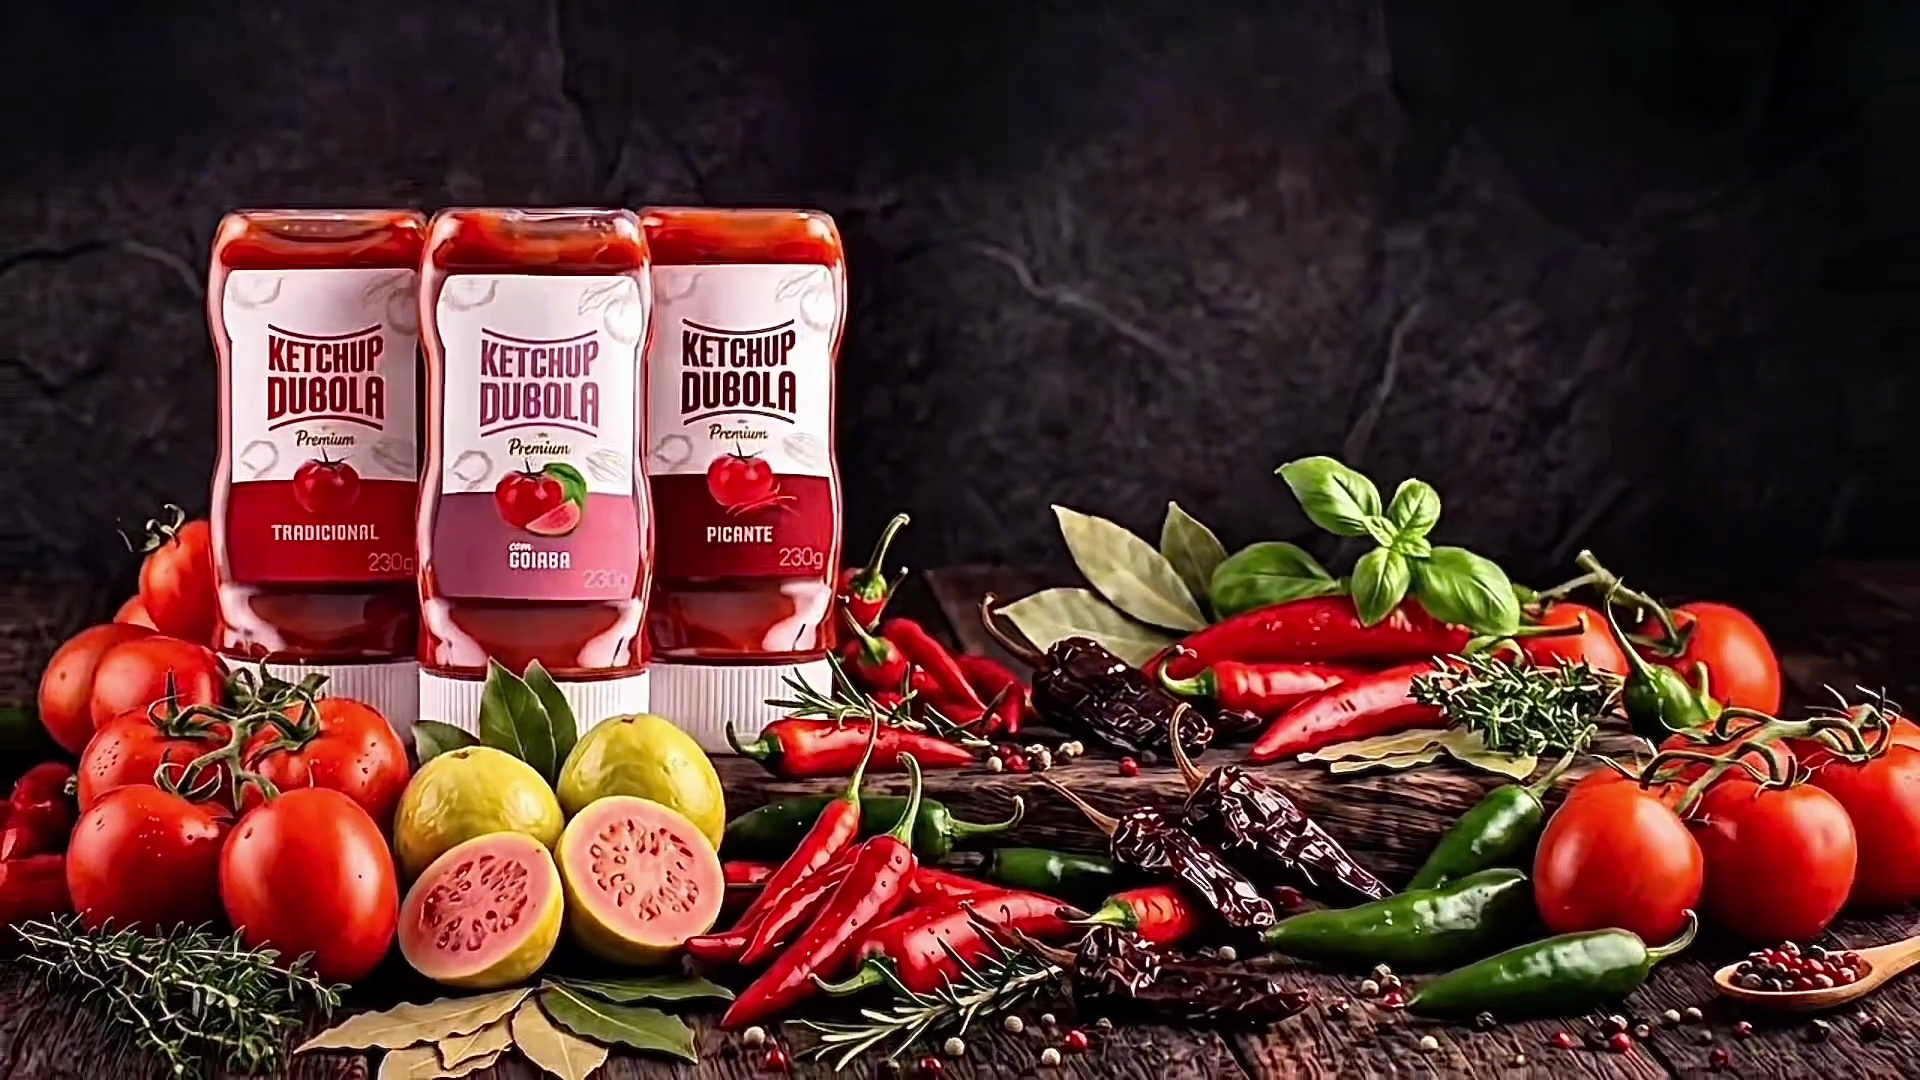
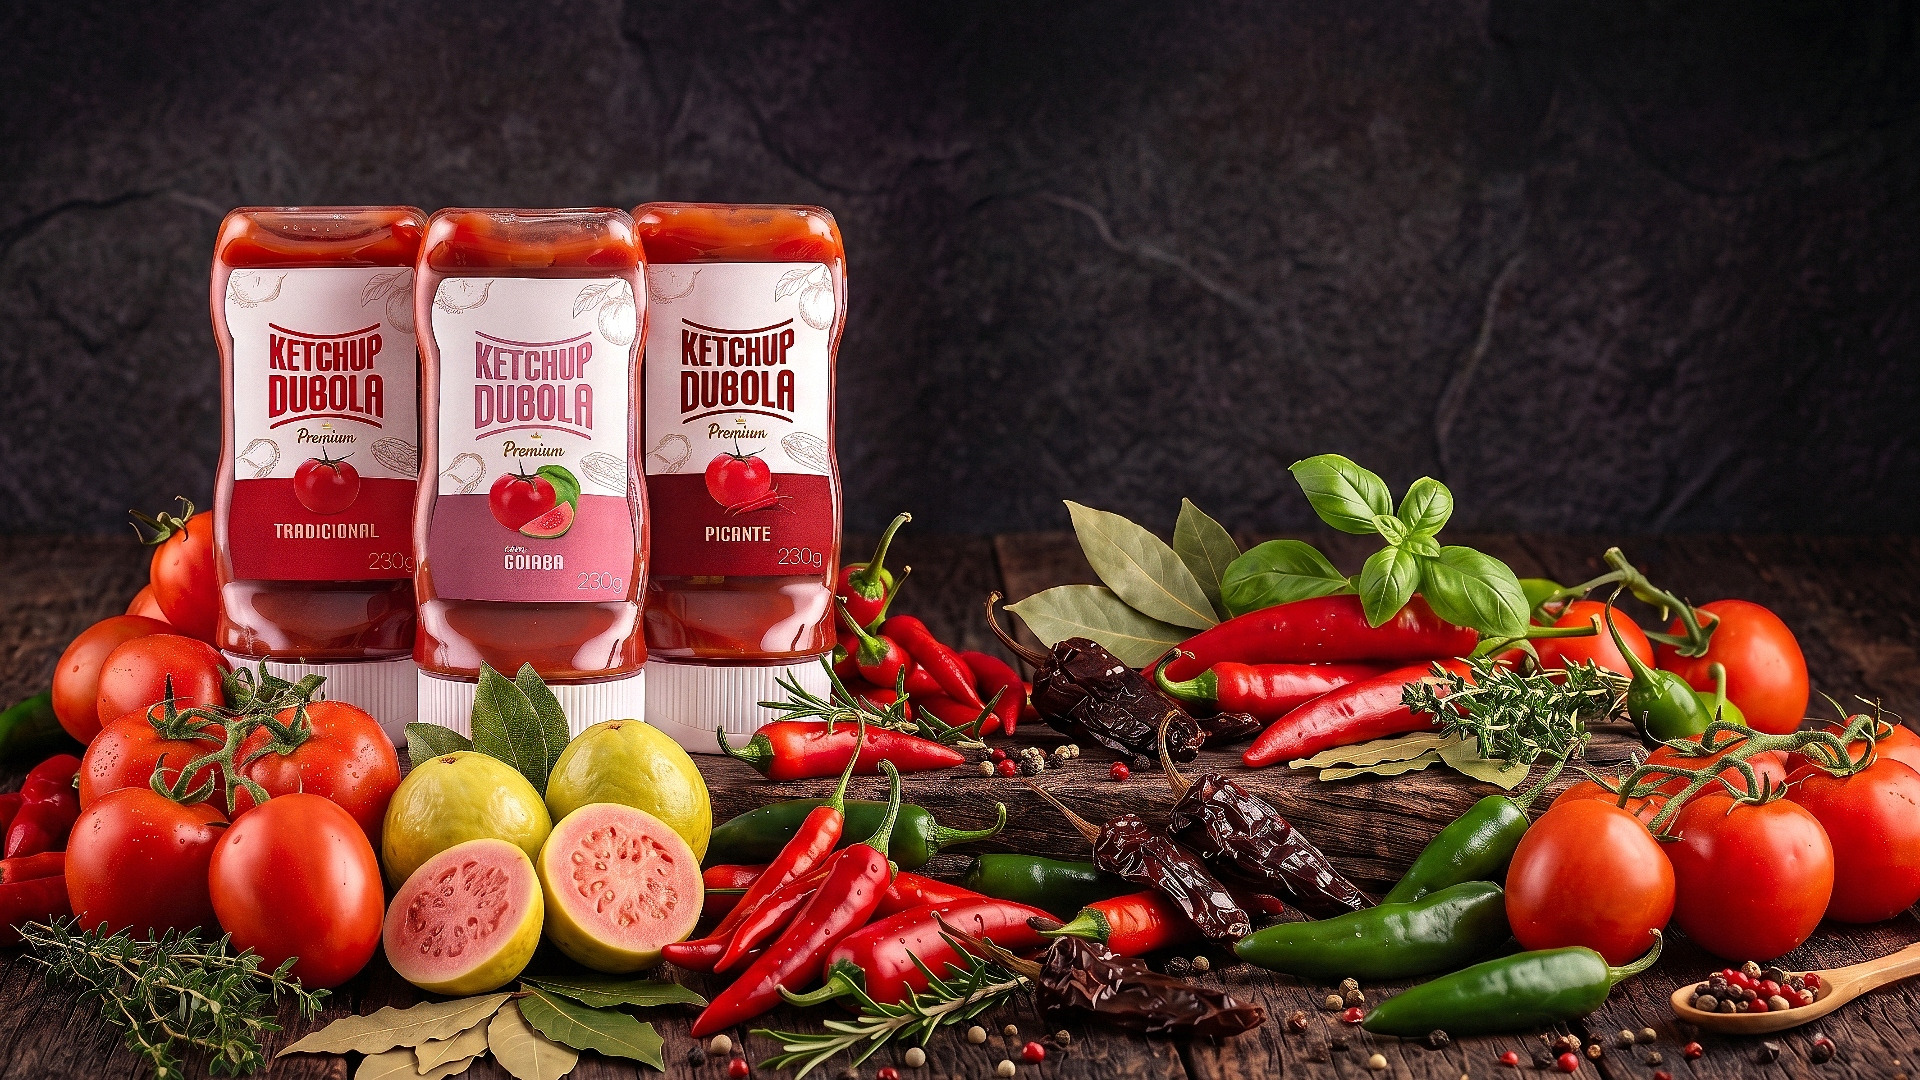
fix: redesign Section 2 Manifesto layout to match high fidelity mockup design, fonts, sizes, and layout

diff --git a/src/views/DubolaB2BView.jsx b/src/views/DubolaB2BView.jsx
@@ -819,40 +819,26 @@ Gostaria de solicitar proposta B2B para:
       <section
         id="manifesto"
         ref={manifestoRef}
-        className="relative w-full overflow-hidden bg-[#62070e] py-20 lg:py-32 px-6 flex items-center z-10 border-t border-white/[0.02]"
+        className="relative w-full overflow-hidden bg-gradient-to-r from-[#7a0c16] via-[#7a0c16] to-[#62070e] py-24 lg:py-32 px-6 flex items-center z-10 border-t border-white/[0.02]"
       >
-        {/* Background image for desktop (lg) */}
-        <div className="absolute inset-0 hidden lg:block">
-          <img 
-            src="/ketchup/trio-ketchups-sem-acucar-splash.png" 
-            alt="" 
-            className="w-full h-full object-cover object-center pointer-events-none select-none"
-          />
-          {/* Subtle overlay to ensure text readability */}
-          <div className="absolute inset-0 bg-black/5" />
-        </div>
-
-        {/* Background gradient for mobile */}
-        <div className="absolute inset-0 lg:hidden bg-gradient-to-b from-[#62070e] via-[#760811] to-[#b6192c] pointer-events-none select-none" />
-
         <div className="relative z-10 max-w-7xl mx-auto w-full">
           {/* Header of Section */}
-          <div className="flex flex-col lg:flex-row lg:items-center lg:justify-between mb-16 gap-6 manifesto-header opacity-0">
-            <div className="flex flex-col md:flex-row md:items-center gap-4 md:gap-8">
-              <h2 className="font-cheddar text-6xl sm:text-8xl tracking-tight leading-none text-white uppercase select-none">
+          <div className="flex flex-col lg:flex-row lg:items-end lg:justify-between mb-20 gap-8 manifesto-header opacity-0">
+            <div className="relative flex items-end">
+              <h2 className="font-cheddar text-7xl sm:text-8xl md:text-9xl tracking-tight leading-none text-white uppercase select-none">
                 O JEITO DUBOLA
               </h2>
-              <div className="relative h-16 sm:h-24 flex items-center manifesto-cursive opacity-0">
+              <div className="absolute -bottom-4 left-[62%] w-48 sm:w-64 z-20 manifesto-cursive opacity-0">
                 <img 
                   src="/como-deve-ser-branco.png" 
                   alt="Como deve ser" 
-                  className="h-full w-auto object-contain transform -rotate-3 select-none"
+                  className="w-full h-auto object-contain transform -rotate-6 select-none"
                 />
               </div>
             </div>
             
-            <div className="max-w-md lg:text-right manifesto-header-right opacity-0">
-              <p className="font-display text-lg sm:text-2xl leading-tight tracking-wider text-white uppercase">
+            <div className="max-w-xl lg:text-right pt-6 lg:pt-0 manifesto-header-right opacity-0">
+              <p className="font-display text-2xl sm:text-3xl lg:text-[2.2rem] leading-none tracking-widest text-white uppercase">
                 A DUBOLA NASCEU PARA RESGATAR<br />
                 A AUTENTICIDADE DOS SABORES.
               </p>
@@ -860,50 +846,47 @@ Gostaria de solicitar proposta B2B para:
           </div>
 
           {/* Grid container */}
-          <div className="grid grid-cols-1 lg:grid-cols-12 gap-12 items-center">
+          <div className="grid grid-cols-1 lg:grid-cols-12 gap-12 lg:gap-16 items-center">
             {/* Left column: Manifesto text */}
-            <div className="lg:col-span-6 space-y-8 font-display uppercase tracking-wider text-xl md:text-2xl select-none">
+            <div className="lg:col-span-6 space-y-10 select-none">
               {/* Paragraph 1 */}
-              <p className="text-zinc-300 font-normal manifesto-p opacity-0">
+              <p className="font-display uppercase tracking-wider text-3xl lg:text-4xl text-white font-bold manifesto-p opacity-0 leading-none">
                 NÃO FAZEMOS MOLHOS APENAS PARA VENDER.
               </p>
 
               {/* Paragraph 2 */}
-              <p className="text-zinc-400 font-normal leading-snug max-w-xl manifesto-p opacity-0">
-                FAZEMOS <span className="text-white font-bold">PRODUTOS AUTÊNTICOS</span> QUE TEMOS <span className="text-white font-bold">ORGULHO</span> DE COLOCAR NA MESA DA NOSSA PRÓPRIA FAMÍLIA.
+              <p className="font-display uppercase tracking-wider text-2xl lg:text-[1.85rem] text-[#f3d3d6] font-normal leading-tight max-w-xl manifesto-p opacity-0">
+                FAZEMOS <span className="text-white font-black">PRODUTOS AUTÊNTICOS</span> QUE TEMOS <span className="text-white font-black">ORGULHO</span> DE COLOCAR NA MESA DA NOSSA PRÓPRIA FAMÍLIA.
               </p>
 
               {/* Paragraph 3 */}
-              <div className="text-zinc-400 font-normal leading-snug space-y-2 manifesto-p opacity-0">
-                <p>ACREDITAMOS QUE <span className="text-white font-bold">SABOR</span> NÃO ACEITA <span className="text-white font-bold">ATALHOS</span>.</p>
-                <p>ACREDITAMOS QUE <span className="text-white font-bold">QUALIDADE</span> NÃO É UM DIFERENCIAL.</p>
-                <p className="pl-12 md:pl-28">É UMA OBRIGAÇÃO.</p>
-                <p>ACREDITAMOS QUE <span className="text-white font-bold">AUTENTICIDADE</span> VALE MAIS DO QUE SEGUIR TENDÊNCIAS.</p>
+              <div className="font-display uppercase tracking-wider text-2xl lg:text-[1.85rem] text-[#f3d3d6] font-normal leading-tight space-y-3 manifesto-p opacity-0">
+                <p>ACREDITAMOS QUE <span className="text-white font-black">SABOR</span> NÃO ACEITA <span className="text-white font-black">ATALHOS</span>.</p>
+                <p>ACREDITAMOS QUE <span className="text-white font-black">QUALIDADE</span> NÃO É UM DIFERENCIAL.</p>
+                <p className="pl-16 md:pl-32">É UMA OBRIGAÇÃO.</p>
+                <p>ACREDITAMOS QUE <span className="text-white font-black">AUTENTICIDADE</span> VALE MAIS DO QUE SEGUIR TENDÊNCIAS.</p>
               </div>
 
               {/* Paragraph 4 */}
-              <p className="text-zinc-400 font-normal leading-snug manifesto-p opacity-0">
-                ACREDITAMOS QUE <span className="text-white font-bold">CONFIANÇA</span> É CONQUISTADA TODOS OS DIAS.
+              <p className="font-display uppercase tracking-wider text-2xl lg:text-[1.85rem] text-[#f3d3d6] font-normal leading-tight manifesto-p opacity-0">
+                ACREDITAMOS QUE <span className="text-white font-black">CONFIANÇA</span> É CONQUISTADA TODOS OS DIAS.
               </p>
 
               {/* Paragraph 5 */}
-              <div className="text-[#1f2d24] font-bold text-2xl md:text-3xl leading-tight pt-4 manifesto-p opacity-0">
+              <div className="font-display uppercase tracking-wider text-3xl lg:text-[2.2rem] text-[#182d1c] font-black leading-tight pt-6 manifesto-p opacity-0">
                 <p>E ACREDITAMOS QUE UM BOM MOLHO</p>
                 <p>É AQUELE QUE VOCÊ TERÁ ORGULHO DE SERVIR.</p>
               </div>
             </div>
 
-            {/* Right column: Image visible ONLY on mobile/tablet */}
-            <div className="lg:col-span-6 lg:hidden w-full flex justify-center mt-6 manifesto-bottles opacity-0">
+            {/* Right column: Image */}
+            <div className="lg:col-span-6 w-full flex justify-center lg:justify-end manifesto-bottles opacity-0">
               <img 
                 src="/ketchup/trio-ketchups-sem-acucar-splash.png" 
                 alt="Ketchups Dubola" 
-                className="w-full max-w-lg object-contain drop-shadow-2xl"
+                className="w-full max-w-2xl object-contain drop-shadow-[0_15px_35px_rgba(0,0,0,0.5)]"
               />
             </div>
-            
-            {/* Empty column on desktop to let the background bottles shine */}
-            <div className="lg:col-span-6 hidden lg:block" />
           </div>
         </div>
       </section>

diff --git a/src/index.css b/src/index.css
@@ -19,6 +19,10 @@
   --color-cs-accent: #8b5cf6; /* Violet 500 */
   --color-cs-text-primary: #f4f4f5; /* Zinc 100 */
   --color-cs-text-secondary: #a1a1aa; /* Zinc 400 */
+  
+  /* Font Family variables for Tailwind v4 */
+  --font-display: 'Bebas Neue', sans-serif;
+  --font-cheddar: 'Cheddar Gothic Rough Regular', 'Cheddar Gothic Rough', 'Bebas Neue', sans-serif;
 }
 
 @layer base {